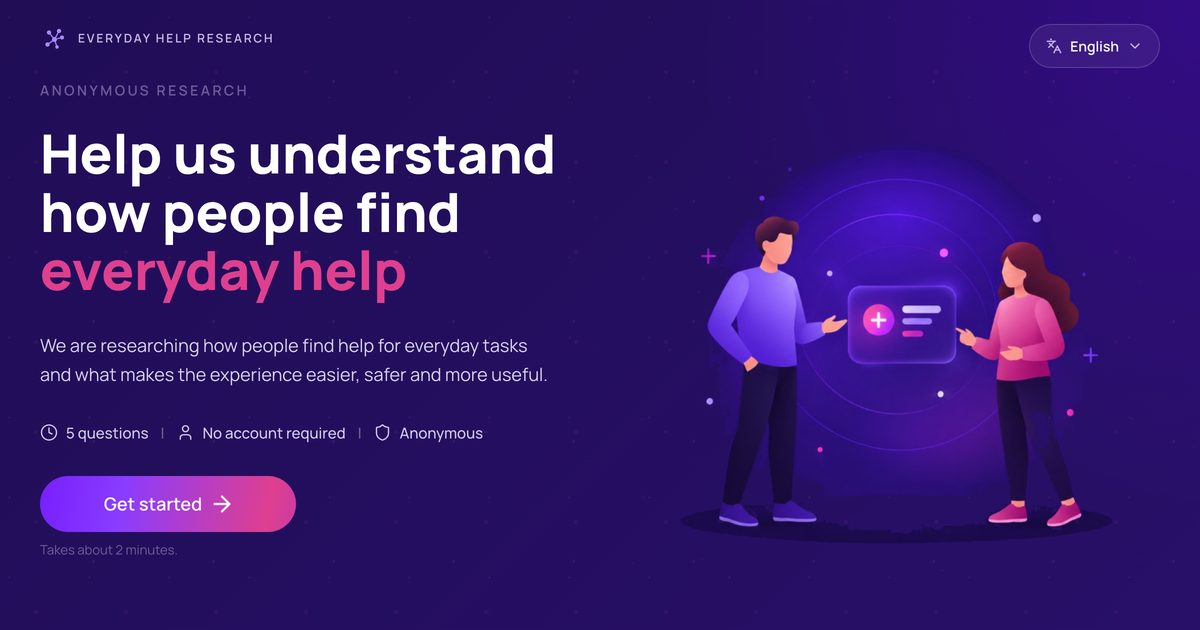
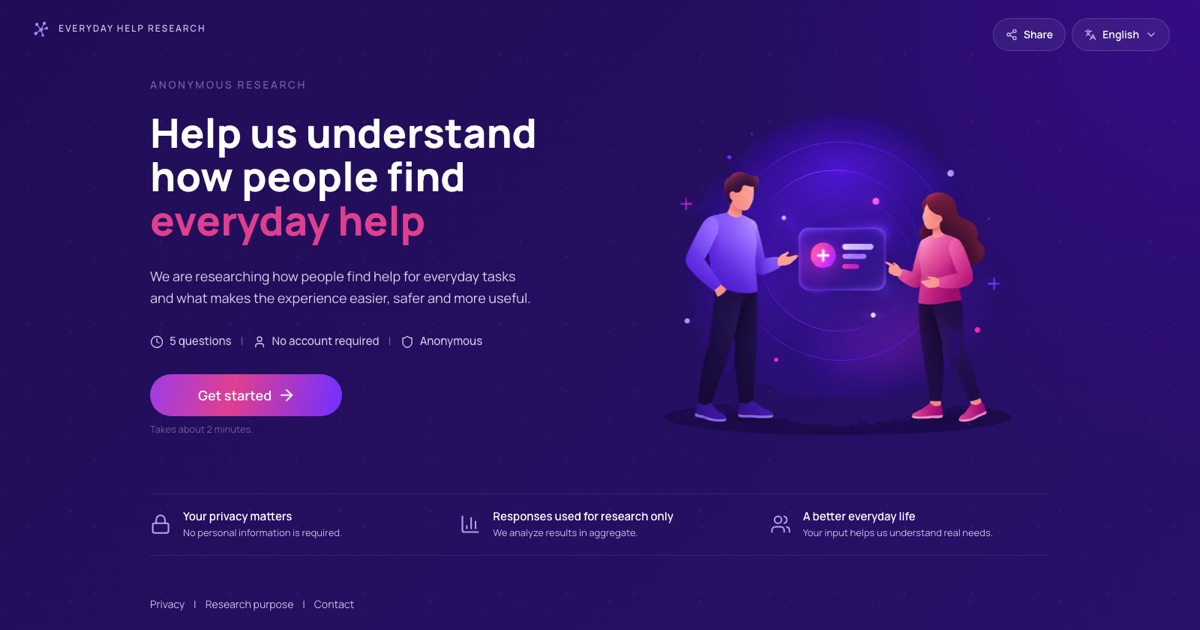
Show each language link with a preview in that language.

diff --git a/client/language-preview.ts b/client/language-preview.ts
@@ -1,0 +1,77 @@
+import { readFileSync, writeFileSync } from "node:fs";
+import path from "node:path";
+import type { Plugin, ResolvedConfig } from "vite";
+
+const SITE = "https://help-research.vercel.app";
+
+const previews = {
+  en: {
+    locale: "en_US",
+    dir: "ltr",
+    title: "Help us understand how people find everyday help",
+    description:
+      "We are researching how people find help for everyday tasks and what makes the experience easier, safer and more useful.",
+  },
+  ru: {
+    locale: "ru_RU",
+    dir: "ltr",
+    title: "Помогите понять, как люди находят помощь в быту",
+    description:
+      "Мы изучаем, как люди находят помощь в повседневных делах и что делает этот опыт проще, безопаснее и полезнее.",
+  },
+  fr: {
+    locale: "fr_FR",
+    dir: "ltr",
+    title: "Aidez-nous à comprendre comment les gens trouvent une aide du quotidien",
+    description:
+      "Nous étudions comment les gens trouvent de l'aide pour les tâches du quotidien, et ce qui rend cette expérience plus simple, plus sûre et plus utile.",
+  },
+  he: {
+    locale: "he_IL",
+    dir: "rtl",
+    title: "עזרו לנו להבין איך אנשים מוצאים עזרה ביום־יום",
+    description: "אנחנו חוקרים איך אנשים מוצאים עזרה למשימות יומיומיות, ומה הופך את זה לפשוט, בטוח ושימושי יותר.",
+  },
+} as const;
+
+function escapeAttr(value: string) {
+  return value.replace(/&/g, "&amp;").replace(/"/g, "&quot;");
+}
+
+export function applyLanguagePreview(html: string, code: keyof typeof previews) {
+  const preview = previews[code];
+  const title = escapeAttr(preview.title);
+  const description = escapeAttr(preview.description);
+  const image = `${SITE}/og-${code}.jpg`;
+
+  return html
+    .replace(/<html lang="[^"]*" dir="[^"]*">/, `<html lang="${code}" dir="${preview.dir}">`)
+    .replace(/<title>[\s\S]*?<\/title>/, `<title>${title}</title>`)
+    .replace(/(<meta name="description" content=")[^"]*(")/, `$1${description}$2`)
+    .replace(/(<meta property="og:locale" content=")[^"]*(")/, `$1${preview.locale}$2`)
+    .replace(/(<meta property="og:url" content=")[^"]*(")/, `$1${SITE}/${code}$2`)
+    .replace(/(<meta property="og:title" content=")[^"]*(")/, `$1${title}$2`)
+    .replace(/(<meta property="og:description" content=")[^"]*(")/, `$1${description}$2`)
+    .replace(/(<meta property="og:image:alt" content=")[^"]*(")/, `$1${title}$2`)
+    .replace(/(<meta name="twitter:title" content=")[^"]*(")/, `$1${title}$2`)
+    .replace(/(<meta name="twitter:description" content=")[^"]*(")/, `$1${description}$2`)
+    .replaceAll(`${SITE}/og-en.jpg`, image);
+}
+
+export function languagePreviewPlugin(): Plugin {
+  let config: ResolvedConfig;
+  return {
+    name: "language-preview",
+    apply: "build",
+    configResolved(resolved) {
+      config = resolved;
+    },
+    closeBundle() {
+      const indexPath = path.resolve(config.root, config.build.outDir, "index.html");
+      const source = readFileSync(indexPath, "utf8");
+      for (const code of Object.keys(previews) as (keyof typeof previews)[]) {
+        writeFileSync(path.resolve(config.root, config.build.outDir, `${code}.html`), applyLanguagePreview(source, code));
+      }
+    },
+  };
+}

diff --git a/client/index.html b/client/index.html
@@ -1,5 +1,5 @@
 <!doctype html>
-<html lang="en">
+<html lang="en" dir="ltr">
   <head>
     <meta charset="UTF-8" />
     <link rel="icon" type="image/svg+xml" href="/favicon.svg" />
@@ -7,24 +7,25 @@
     <link rel="preconnect" href="https://fonts.gstatic.com" crossorigin />
     <link href="https://fonts.googleapis.com/css2?family=Heebo:wght@400;500;600;700;800&family=Manrope:wght@400;500;600;700;800&display=swap" rel="stylesheet" />
     <meta name="viewport" content="width=device-width, initial-scale=1.0" />
-    <title>Help survey</title>
-    <meta name="description" content="Help us understand how people find everyday help. 5 quick questions. About 1 minute." />
+    <title>Help us understand how people find everyday help</title>
+    <meta name="description" content="We are researching how people find help for everyday tasks and what makes the experience easier, safer and more useful." />
     <meta name="theme-color" content="#200D56" />
     <meta property="og:type" content="website" />
+    <meta property="og:locale" content="en_US" />
     <meta property="og:url" content="https://help-research.vercel.app/" />
-    <meta property="og:title" content="Help survey" />
-    <meta property="og:description" content="Help us understand how people find everyday help. 5 quick questions. About 1 minute." />
-    <meta property="og:image" content="https://help-research.vercel.app/og.jpg" />
-    <meta property="og:image:secure_url" content="https://help-research.vercel.app/og.jpg" />
+    <meta property="og:title" content="Help us understand how people find everyday help" />
+    <meta property="og:description" content="We are researching how people find help for everyday tasks and what makes the experience easier, safer and more useful." />
+    <meta property="og:image" content="https://help-research.vercel.app/og-en.jpg" />
+    <meta property="og:image:secure_url" content="https://help-research.vercel.app/og-en.jpg" />
     <meta property="og:image:type" content="image/jpeg" />
     <meta property="og:image:width" content="1200" />
     <meta property="og:image:height" content="630" />
-    <meta property="og:image:alt" content="Help survey landing page" />
+    <meta property="og:image:alt" content="Help us understand how people find everyday help" />
     <meta name="twitter:card" content="summary_large_image" />
-    <meta name="twitter:title" content="Help survey" />
-    <meta name="twitter:description" content="Help us understand how people find everyday help. 5 quick questions. About 1 minute." />
-    <meta name="twitter:image" content="https://help-research.vercel.app/og.jpg" />
-    <link rel="image_src" href="https://help-research.vercel.app/og.jpg" />
+    <meta name="twitter:title" content="Help us understand how people find everyday help" />
+    <meta name="twitter:description" content="We are researching how people find help for everyday tasks and what makes the experience easier, safer and more useful." />
+    <meta name="twitter:image" content="https://help-research.vercel.app/og-en.jpg" />
+    <link rel="image_src" href="https://help-research.vercel.app/og-en.jpg" />
   </head>
   <body>
     <div id="root"></div>

diff --git a/client/src/hooks/useSurveyLanguage.ts b/client/src/hooks/useSurveyLanguage.ts
@@ -17,21 +17,24 @@ export function useSurveyLanguage(locked?: SurveyLanguage) {
     setLanguage(locked);
   }, [locked]);
 
+  const copy = packFor(language);
+
   useEffect(() => {
     const previousLang = document.documentElement.lang;
     const previousDir = document.documentElement.dir;
     document.documentElement.lang = language;
     document.documentElement.dir = language === "he" ? "rtl" : "ltr";
+    document.title = `${copy.landing.headlineLead} ${copy.landing.headlineMiddle} ${copy.landing.headlineAccent}`;
     return () => {
       document.documentElement.lang = previousLang || "en";
       document.documentElement.dir = previousDir || "ltr";
     };
-  }, [language]);
+  }, [language, copy]);
 
   function selectLanguage(next: SurveyLanguage) {
     setLanguage(next);
     writeLanguage(next);
   }
 
-  return { language, copy: packFor(language), selectLanguage };
+  return { language, copy, selectLanguage };
 }

diff --git a/client/src/pages/LandingPage.tsx b/client/src/pages/LandingPage.tsx
@@ -66,7 +66,7 @@ export function LandingPage({ languageLock }: { languageLock?: SurveyLanguage })
       </div>
       <div className="absolute top-5 left-5 z-30 flex items-center gap-2.5 md:top-6 md:left-10">
         <ResearchMark />
-        <p className="text-[12px] font-semibold tracking-[0.16em] text-[#C9BDE8] uppercase">Everyday help research</p>
+        <p className="text-[12px] font-semibold tracking-[0.16em] text-[#C9BDE8] uppercase">{text.brand}</p>
       </div>
       <div className="relative mx-auto flex min-h-svh w-full max-w-7xl flex-col justify-center px-5 pt-20 pb-20 md:px-10">
         <div className="relative z-10 grid items-center gap-10 lg:grid-cols-2">

diff --git a/client/src/locales/ru.ts b/client/src/locales/ru.ts
@@ -22,6 +22,7 @@ export const ru: LocalePack = {
   contact: "Связаться с нами",
   shareText: "Помогите понять, как люди находят повседневную помощь.",
   landing: {
+    brand: "Исследование бытовой помощи",
     eyebrow: "Анонимное исследование",
     headlineLead: "Помогите понять,",
     headlineMiddle: "как люди находят",

diff --git a/client/vite.config.ts b/client/vite.config.ts
@@ -2,9 +2,10 @@ import path from "node:path";
 import tailwindcss from "@tailwindcss/vite";
 import react from "@vitejs/plugin-react";
 import { defineConfig } from "vite";
+import { languagePreviewPlugin } from "./language-preview.ts";
 
 export default defineConfig({
-  plugins: [react(), tailwindcss()],
+  plugins: [react(), tailwindcss(), languagePreviewPlugin()],
   resolve: {
     alias: {
       "@": path.resolve(import.meta.dirname, "./src"),

diff --git a/client/src/locales/he.ts b/client/src/locales/he.ts
@@ -22,6 +22,7 @@ export const he: LocalePack = {
   contact: "צרו קשר",
   shareText: "עזרו לנו להבין איך אנשים מוצאים עזרה ביום־יום.",
   landing: {
+    brand: "מחקר עזרה ביום־יום",
     eyebrow: "מחקר אנונימי",
     headlineLead: "עזרו לנו להבין",
     headlineMiddle: "איך אנשים מוצאים",

diff --git a/client/src/locales/fr.ts b/client/src/locales/fr.ts
@@ -22,6 +22,7 @@ export const fr: LocalePack = {
   contact: "Nous contacter",
   shareText: "Aidez-nous à comprendre comment les gens trouvent une aide du quotidien.",
   landing: {
+    brand: "Recherche sur l'aide du quotidien",
     eyebrow: "Recherche anonyme",
     headlineLead: "Aidez-nous à comprendre",
     headlineMiddle: "comment les gens trouvent",

diff --git a/client/src/locales/en.ts b/client/src/locales/en.ts
@@ -20,6 +20,7 @@ export const en = {
   contact: "Contact us",
   shareText: "Help us understand how people find everyday help.",
   landing: {
+    brand: "Everyday help research",
     eyebrow: "Anonymous research",
     headlineLead: "Help us understand",
     headlineMiddle: "how people find",
